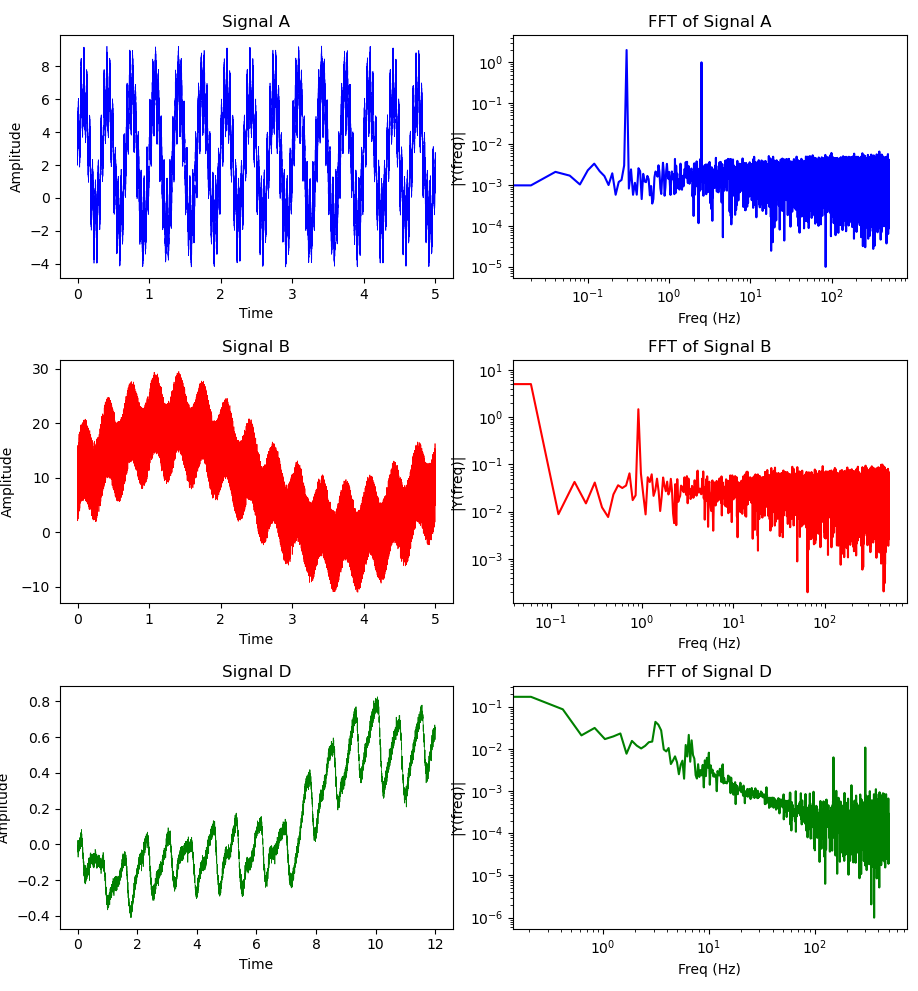
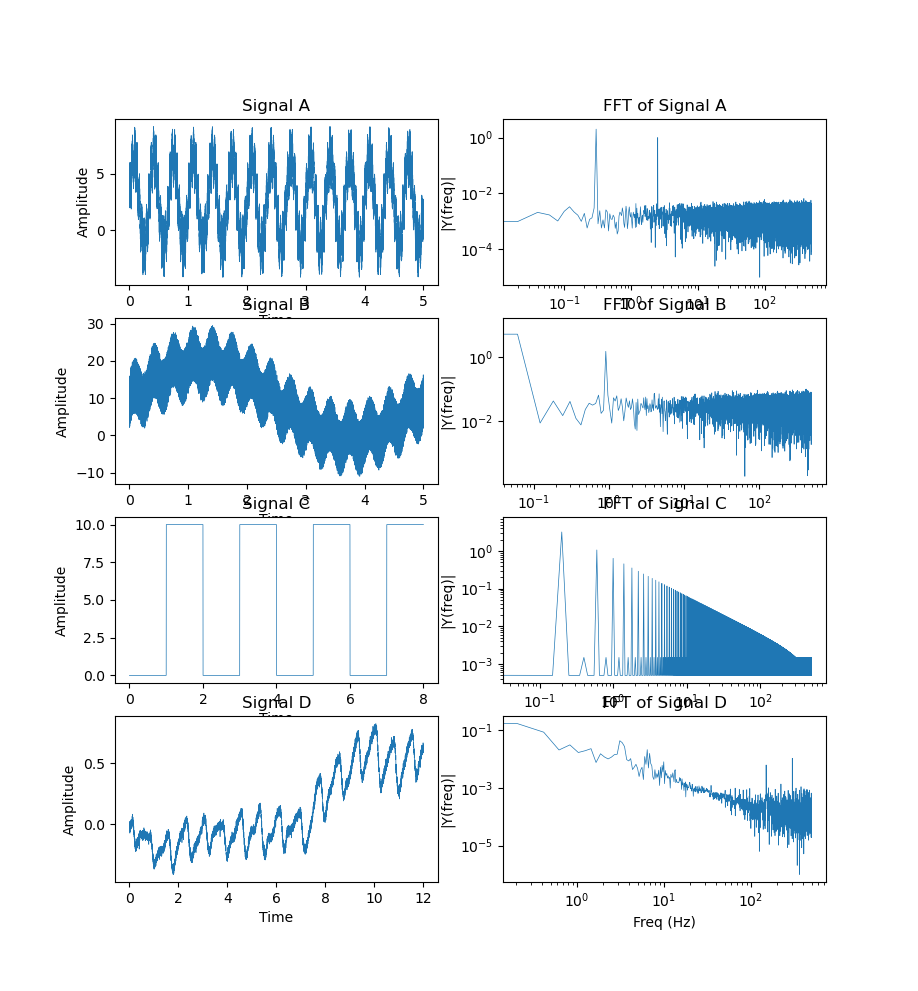
started part 6

diff --git a/Homework9/hw9.py b/Homework9/hw9.py
@@ -45,28 +45,70 @@ def low_pass_filter(signal, A, B):
 # csv reads
 A1, A2 = read_csv('sigA.csv')
 B1, B2 = read_csv('sigB.csv')
+C1, C2 = read_csv('sigC.csv')
 D1, D2 = read_csv('sigD.csv')
 
 signals = [
-    ("A", A1, A2, "b"),
-    ("B", B1, B2, "r"),
-    ("D", D1, D2, "g"),
+    ("A", A1, A2),
+    ("B", B1, B2),
+    ("C", C1, C2),
+    ("D", D1, D2),
 ]
 
-# plots (part 5)
-plt.figure()
-fig, axs = plt.subplots(3, 2, figsize=(12, 10))
-for i, (name, t, x, color) in enumerate(signals):
+# fft (part 5)
+# plots
+fig, axs = plt.subplots(4, 2, figsize=(12, 10))
+for i, (name, t, x) in enumerate(signals):
     # time-domain plot
-    axs[i, 0].plot(t, x, color, lw=0.5)
+    axs[i, 0].plot(t, x, lw=0.5)
     axs[i, 0].set_title(f"Signal {name}")
     axs[i, 0].set_xlabel("Time")
     axs[i, 0].set_ylabel("Amplitude")
 
     # frequency-domain plot
     frq, Y = compute_fft(x, 1000)
-    axs[i, 1].loglog(frq, abs(Y), color)
+    axs[i, 1].loglog(frq, abs(Y), lw=0.5)
     axs[i, 1].set_title(f"FFT of Signal {name}")
+    axs[i, 1].set_xlabel("Freq (Hz)")
+    axs[i, 1].set_ylabel("|Y(freq)|")
+plt.show()
+
+# filtering (part 6)
+A_filtered = low_pass_filter(A2, 0.9, 0.1) 
+B_filtered = low_pass_filter(B2, 0.9, 0.1)
+C_filtered = low_pass_filter(C2, 0.9, 0.1)
+D_filtered = low_pass_filter(D2, 0.9, 0.1)  
+# plots for filtered signals
+fig, axs = plt.subplots(4, 2, figsize=(12, 10))
+for i, (name, t, x) in enumerate(signals):
+    # time-domain plot of filtered signal
+    if name == "A":
+        axs[i, 0].plot(t, A2, lw=0.5, color='k')
+        axs[i, 0].plot(t, A_filtered, lw=0.5, color='r')
+    elif name == "B":
+        axs[i, 0].plot(t, B2, lw=0.5, color='k')
+        axs[i, 0].plot(t, B_filtered, lw=0.5, color='r')
+    elif name == "C":
+        axs[i, 0].plot(t, C2, lw=0.5, color='k')
+        axs[i, 0].plot(t, C_filtered, lw=0.5, color='r')
+    else:
+        axs[i, 0].plot(t, D2, lw=0.5, color='k')
+        axs[i, 0].plot(t, D_filtered, lw=0.5, color='r')
+    
+    axs[i, 0].set_title(f"Filtered Signal {name}")
+    axs[i, 0].set_xlabel("Time")
+    axs[i, 0].set_ylabel("Amplitude")
+
+    # frequency-domain plot of filtered signal
+    if name == "A":
+        frq, Y = compute_fft(A_filtered, 1000)
+    elif name == "B":
+        frq, Y = compute_fft(B_filtered, 1000)
+    else:
+        frq, Y = compute_fft(D_filtered, 1000)
+
+    axs[i, 1].loglog(frq, abs(Y), lw=0.5)
+    axs[i, 1].set_title(f"FFT of Filtered Signal {name}")
     axs[i, 1].set_xlabel("Freq (Hz)")
     axs[i, 1].set_ylabel("|Y(freq)|")
 plt.show()
